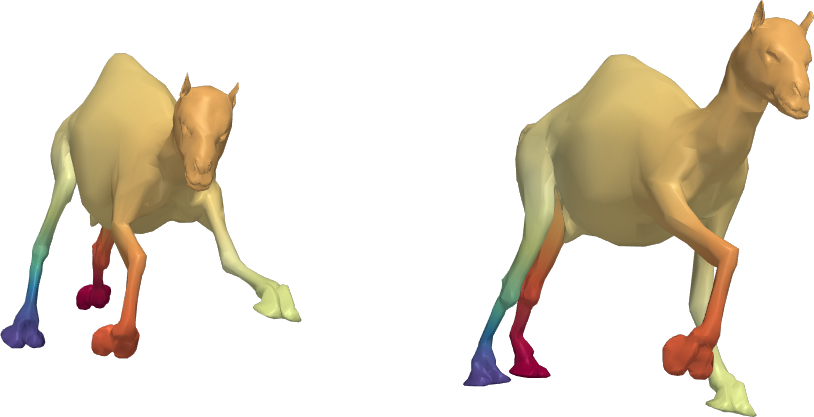
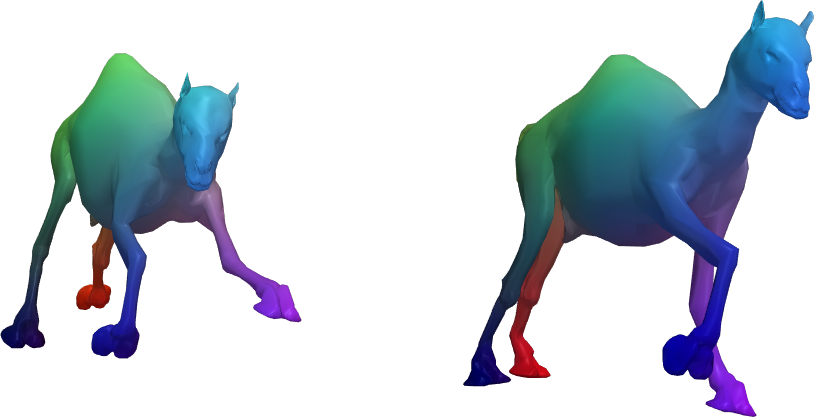
Poster + correspondence: layout polish, thicker strikes, fixed lion painting
Poster:
- Headline gains "In memory of Haim Brezis (1944-2024)" as a zero-height
  overlay so it doesn't push the title block up.
- Cells shift up by 1.0 cm (\vspace{-1.2cm}); top + bottom margins now
  measured at ~1.3 cm / 1.7 cm (well above the 0.5 cm minimum).
- Strikethrough on the Traditional-row chips bumped to ULthickness 2.4pt
  so the "skipped" stages read at poster distance.
- "Our pipeline" -> "Our Pipeline".
- Image manifold cell: STL10 / NMI labels and Arbitrary / Optimal labels
  bumped to \Large.
- 5 cells + volumetric cell + image-manifold restructured as left/right
  wrappers so the volumetric block sits flush under Schrodinger /
  Resolution & sampling.

Correspondence figure (gen_02_correspondence.py):
- Replaces the old low-frequency LBO probe with XYZ -> RGB painted on
  mesh A, transferred to B per channel via the functional map. Fixes the
  case where the LBO basis (nonzero=True) dropped the DC mean and left
  the body of mesh B clipped to black: we subtract / add the per-channel
  mean around the projection.
- Bumps SPECTRUM_SIZE to 120 for a higher-fidelity reconstruction.
- Keeps the original Phong-style lighting (ambient 0.25, diffuse 0.75,
  specular 0.2) for crisp 3-D shading.

Changed region(s): [[0.5528, 0.0, 1.0, 1.0], [0.0, 0.1247, 0.3686, 0.8729]]

diff --git a/poster/poster.tex b/poster/poster.tex
@@ -117,8 +117,8 @@
 
 % ─── Header band ────────────────────────────────────────────────────────
 \setbeamertemplate{headline}{%
-  \begin{beamercolorbox}[wd=\paperwidth, ht=10cm, dp=0pt, leftskip=2cm, rightskip=2cm]{background canvas}
-    \vspace{0.3cm}
+  \begin{beamercolorbox}[wd=\paperwidth, ht=10.5cm, dp=0pt, leftskip=2cm, rightskip=2cm]{background canvas}
+    \vspace*{0.8cm}% ≥ 0.5cm white space at the top edge of the poster
     \noindent
     % Left: institution logos (single row, vertically centered with title block)
     \begin{minipage}[c]{0.32\paperwidth}\raggedright
@@ -133,7 +133,14 @@
       \vspace{0.4cm}
       {\color{cFgMuted}\fontsize{52pt}{62pt}\selectfont \insertauthor\par}
       \vspace{0.2cm}
-      {\color{cFgSubtle}\fontsize{40pt}{48pt}\selectfont \insertinstitute\par}
+      {\color{cFgSubtle}\fontsize{40pt}{48pt}\selectfont \insertinstitute\par}%
+      % Memorial line as a zero-height overlay so it doesn't push the
+      % centered title block upward — it floats just below the institutes.
+      \vbox to 0pt{%
+        \vspace*{0.25cm}%
+        \hbox to \linewidth{\hfil{\color{cFgSubtle}\fontsize{32pt}{40pt}\selectfont\itshape In memory of Ha\"im Brezis (1944--2024)}\hfil}%
+        \vss
+      }%
     \end{minipage}\hfill
     % Right: QR (paper link) + CVPR logo
     \begin{minipage}[c]{0.18\paperwidth}\raggedleft
@@ -156,7 +163,7 @@
 % ─────────────────────────────────────────────────────────────────────────
 %  COLUMN BAND  (sits below the header band rendered by \setbeamertemplate)
 % ─────────────────────────────────────────────────────────────────────────
-\vspace{-0.2cm}
+\vspace{-1.2cm}% shift all cells up by 1.0cm relative to prior layout
 \begin{columns}[t, onlytextwidth]
 
 % ───────────── Column 1 ─────────────
@@ -344,8 +351,10 @@
   \def\chipPhantom{\vphantom{\begin{tabular}{@{}c@{}}M\\ M\end{tabular}}}%
   % Chip palette: light olive bg (matching this cell's section-title tint),
   % dark text, thin black stroke. Bypassed chip uses a lighter fill so the
-  % strikethrough still reads as "skipped".
+  % strikethrough still reads as "skipped". Cross-out line is thick so the
+  % "skipped" stages read clearly at poster distance.
   \setlength{\fboxrule}{0.6pt}%
+  \renewcommand{\ULthickness}{2.4pt}%
   \def\chip#1{\fcolorbox{black}{cTitleOlive!15!white}{\color{cFg}\bfseries\Large\,\chipPhantom#1\,}}%
   \def\chipBy#1{\fcolorbox{black}{cTitleOlive!7!white}{\color{cFgMuted}\bfseries\Large\,\chipPhantom{\color{cAccent}\sout{\textcolor{cFgMuted}{#1}}}\,}}%
   \def\chipMulti#1#2{\fcolorbox{black}{cTitleOlive!15!white}{\color{cFg}\bfseries\Large\,\begin{tabular}{@{}c@{}}\strut#1\\ #2\strut\end{tabular}\,}}%
@@ -423,12 +432,12 @@
   % the surrounding transparent corners. Layout above/below is unchanged.
   \begin{minipage}[t]{0.48\linewidth}
     \centering
-    \textbf{Arbitrary basis}\par\vspace{0.4ex}
+    {\Large\textbf{Arbitrary basis}}\par\vspace{0.4ex}
     \vbox to 16cm{\vss\centerline{\includegraphics[height=20cm, keepaspectratio]{figures/optimal_basis_step7.png}}\vss}%
   \end{minipage}\hfill
   \begin{minipage}[t]{0.48\linewidth}
     \centering
-    \textbf{Optimal $k$-term basis}\par\vspace{0.4ex}
+    {\Large\textbf{Optimal $k$-term basis}}\par\vspace{0.4ex}
     \vbox to 16cm{\vss\centerline{\includegraphics[height=20cm, keepaspectratio]{figures/optimal_basis_step9.png}}\vss}%
   \end{minipage}\par
   \vspace{1.0ex}
@@ -609,7 +618,7 @@
   \vspace{0.9ex}
 }
 \setbeamercolor{block title}{fg=white, bg=cTitleNavy}%
-\begin{block}{\LARGE Our pipeline}
+\begin{block}{\LARGE Our Pipeline}
   \centering
   \includegraphics[width=\linewidth]{figures/pipeline.png}\par
   \vspace{1.8ex}
@@ -824,12 +833,12 @@
     % Side-by-side: STL10 cluster image on the LEFT, NMI/ARI chart on the
     % RIGHT. Each takes ~48 % of the cell width.
     \begin{minipage}[c]{0.49\linewidth}\centering
-      \textbf{\small STL10 clusters \;{\scriptsize\normalfont(DINOv2)}}\par
+      \textbf{\Large STL10 clusters \;{\normalsize\normalfont(DINOv2)}}\par
       \vspace{0.4ex}
       \includegraphics[width=\linewidth, height=18cm, keepaspectratio]{figures/stl10_clusters.png}
     \end{minipage}\hfill
     \begin{minipage}[c]{0.49\linewidth}\centering
-      \textbf{\small NMI \& ARI}\par
+      \textbf{\Large NMI \& ARI}\par
       \vspace{0.4ex}
       \includegraphics[width=\linewidth, height=18cm, keepaspectratio]{figures/nmi_ari_chart.png}
     \end{minipage}
@@ -859,5 +868,6 @@
 \end{column}
 
 \end{columns}
+\vspace*{0.5cm}% ≥ 0.5cm white space at the bottom edge of the poster
 \end{frame}
 \end{document}

diff --git a/gen/gen_02_correspondence.py b/gen/gen_02_correspondence.py
@@ -13,6 +13,8 @@ One image per pair → app_02_corr_<name>.png
 """
 from _common import decimate_pair, setup_plotter, save_screenshot, DEFTRANSFER
 import numpy as np
+import matplotlib.colors as mcolors
+import matplotlib.cm as mcm
 import pyvista as pv
 import trimesh
 from geomfum.shape import TriangleMesh
@@ -28,7 +30,7 @@ PAIRS = [
     ("flamingo", "flamingo-poses/flam-01.obj", "flamingo-poses/flam-06.obj"),
 ]
 TARGET_FACES = 8000
-SPECTRUM_SIZE = 30
+SPECTRUM_SIZE = 120
 
 
 def load_raw(path):
@@ -80,14 +82,35 @@ for name, fa, fb in PAIRS:
     # Functional map A → B (built from p2p via least squares).
     fmap = fm_converter(p2p, basis_a, basis_b)
 
-    # Low-frequency signal on A: combination of the first two non-trivial
-    # eigenvectors of basis A.
-    signal_a = basis_a.vecs[:, 1] + 0.6 * basis_a.vecs[:, 2]
+    # Paint mesh A by its (normalized) XYZ position, used as an RGB
+    # triple per vertex. Each channel is then independently projected
+    # onto basis_a, pushed by fmap into basis_b, and reconstructed on B,
+    # so matching anatomy on B inherits the colour of the corresponding
+    # region of A.
+    xyz_a = Va - Va.min(axis=0, keepdims=True)
+    xyz_a = xyz_a / np.maximum(xyz_a.max(axis=0, keepdims=True), 1e-12)
+    rgb_a = xyz_a
 
-    # Project onto basis_a, push through fmap, reconstruct on B.
-    signal_a_coeffs = basis_a.pinv @ signal_a
-    signal_b_coeffs = fmap @ signal_a_coeffs
-    signal_b = basis_b.vecs @ signal_b_coeffs
+    # The LBO basis is built with nonzero=True, which excludes the
+    # constant eigenvector. The projection therefore drops the DC mean
+    # of each channel — without restoring it, the reconstruction on B
+    # would be zero-mean and most of the surface would clip to black.
+    # We subtract the mean before projecting and add it back after, since
+    # the constant component is preserved by any correspondence.
+    mean_a = rgb_a.mean(axis=0, keepdims=True)        # (1, 3)
+    rgb_a_ac = rgb_a - mean_a                         # zero-mean per channel
+
+    coeffs_a = basis_a.pinv @ rgb_a_ac                # (k, 3)
+    coeffs_b = fmap @ coeffs_a                        # (k, 3)
+    rgb_b = basis_b.vecs @ coeffs_b + mean_a          # (n, 3) on mesh B
+
+    # Reconstruction on a finite basis can overshoot [0, 1]; clip so
+    # PyVista accepts the values as colours.
+    rgb_b = np.clip(rgb_b, 0.0, 1.0)
+
+    # PyVista expects uint8 RGB arrays when scalars are colours.
+    rgb_a_u8 = (rgb_a * 255.0 + 0.5).astype(np.uint8)
+    rgb_b_u8 = (rgb_b * 255.0 + 0.5).astype(np.uint8)
 
     # Render.
     faces_pv = np.hstack([np.full((F.shape[0], 1), 3, dtype=np.int64), F.astype(np.int64)]).ravel()
@@ -98,18 +121,14 @@ for name, fa, fb in PAIRS:
 
     mesh_a = pv.PolyData(Va_r, faces_pv)
     mesh_b = pv.PolyData(Vb_r, faces_pv)
-    mesh_a["sig"] = signal_a
-    mesh_b["sig"] = signal_b
-
-    # Shared color range across both meshes so equal anatomical regions
-    # actually map to equal colours visually.
-    clim_lo = float(min(signal_a.min(), signal_b.min()))
-    clim_hi = float(max(signal_a.max(), signal_b.max()))
+    mesh_a["rgb"] = rgb_a_u8
+    mesh_b["rgb"] = rgb_b_u8
 
     p = setup_plotter((1000, 500))
+    # Original Phong-style mix (low ambient, strong diffuse + crisp
+    # specular) — gives clear 3-D shading and sharp highlights.
     common = dict(
-        scalars="sig", cmap="Spectral", smooth_shading=True, show_scalar_bar=False,
-        clim=(clim_lo, clim_hi),
+        scalars="rgb", rgb=True, smooth_shading=True, show_scalar_bar=False,
         ambient=0.25, diffuse=0.75, specular=0.2, specular_power=15,
     )
     p.add_mesh(mesh_a, **common)
